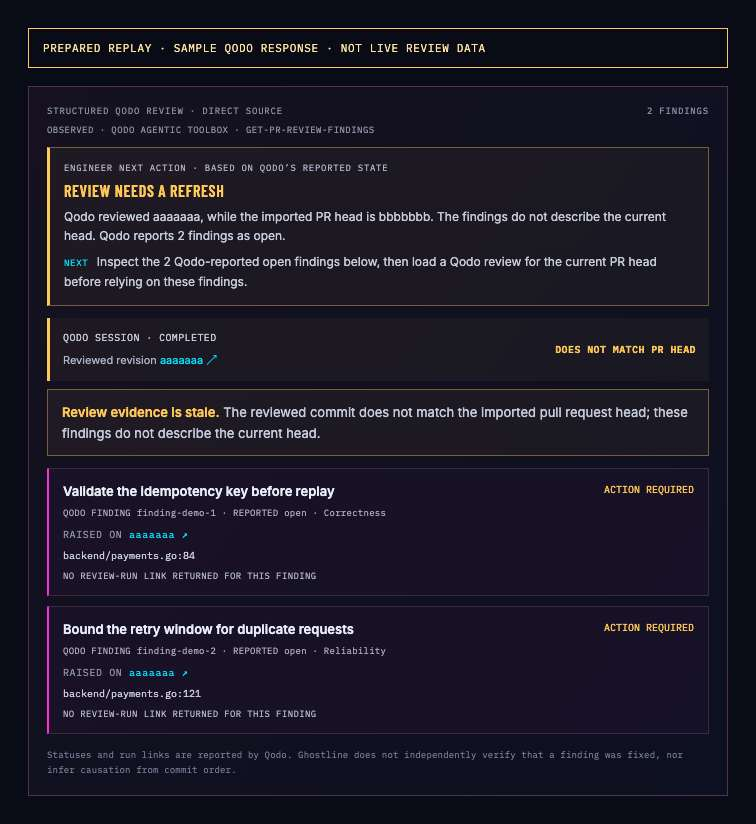
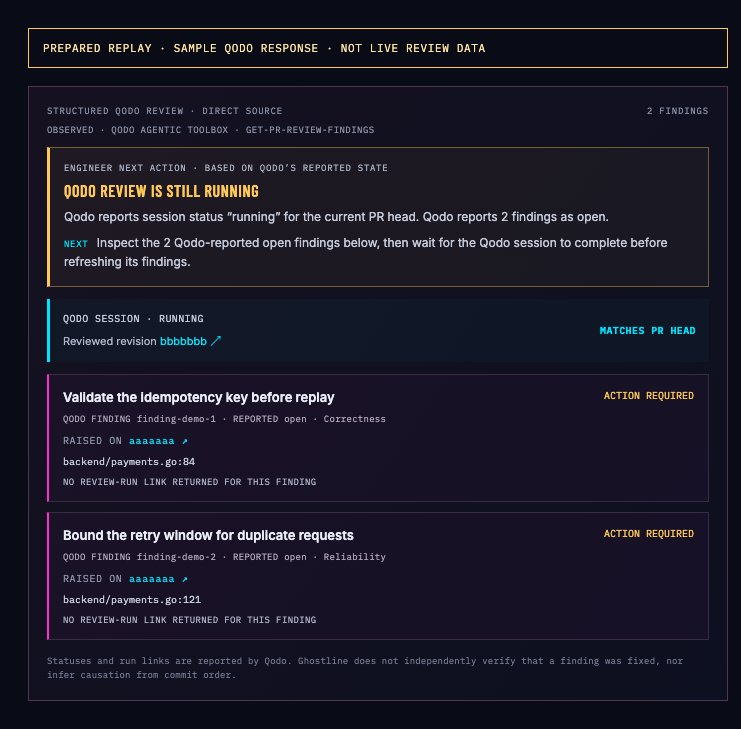
fix: retain findings during active Qodo reviews

diff --git a/frontend/src/domain/qodoReviewSession.ts b/frontend/src/domain/qodoReviewSession.ts
@@ -164,8 +164,8 @@ export function reviewAttentionSummary(review: QodoStructuredReview, headSha: st
       ...counts,
       kind: 'in-progress',
       title: 'Qodo review is still running',
-      detail: `Qodo reports session status “${review.reviewSession.status}” for the current PR head.`,
-      nextAction: 'Wait for the Qodo session to complete, then refresh its findings.',
+      detail: `Qodo reports session status “${review.reviewSession.status}” for the current PR head.${freshnessFindingDetail(openFindingCount, unclassifiedFindingCount)}`,
+      nextAction: freshnessNextAction(openFindingCount, unclassifiedFindingCount, 'wait for the Qodo session to complete before refreshing its findings.'),
     }
   }
   if (sessionStatus !== 'completed') {
@@ -173,8 +173,8 @@ export function reviewAttentionSummary(review: QodoStructuredReview, headSha: st
       ...counts,
       kind: 'incomplete',
       title: 'Qodo review is not complete',
-      detail: `Qodo reports session status “${review.reviewSession.status}” for the current PR head.`,
-      nextAction: 'Inspect the Qodo session and decide whether to retry before acting on its findings.',
+      detail: `Qodo reports session status “${review.reviewSession.status}” for the current PR head.${freshnessFindingDetail(openFindingCount, unclassifiedFindingCount)}`,
+      nextAction: freshnessNextAction(openFindingCount, unclassifiedFindingCount, 'inspect the Qodo session and decide whether to retry before acting on its findings.'),
     }
   }
 

diff --git a/frontend/src/domain/qodoReviewSession.test.ts b/frontend/src/domain/qodoReviewSession.test.ts
@@ -144,6 +144,27 @@ describe('structured Qodo review evidence', () => {
     expect(reviewAttentionSummary(review, shaA).nextAction.toLowerCase()).toContain('wait')
   })
 
+  it('keeps open and unclassified findings visible during running and incomplete sessions', () => {
+    for (const status of ['running', 'failed']) {
+      const review = QodoStructuredReviewSchema.parse({
+        availability: 'available', source: 'Qodo',
+        reviewSession: { status, commitSha: shaA },
+        findings: [
+          { id: 'finding-open', title: 'Check idempotency', status: 'open' },
+          { id: 'finding-unclassified', title: 'Bound retries' },
+        ],
+        reviewRuns: [],
+      })
+
+      const summary = reviewAttentionSummary(review, shaA)
+      expect(summary.openFindingCount).toBe(1)
+      expect(summary.detail).toContain('Qodo reports 1 finding as open')
+      expect(summary.detail).toContain('1 finding has no recognized status')
+      expect(summary.nextAction).toContain('Inspect the 1 Qodo-reported open finding')
+      expect(summary.nextAction).toContain('1 finding with no recognized status')
+    }
+  })
+
   it('surfaces Qodo-reported open and unspecified findings without claiming repairs', () => {
     const review = QodoStructuredReviewSchema.parse({
       availability: 'available', source: 'Qodo',

diff --git a/frontend/src/presentation/StructuredQodoReview.dom.test.ts b/frontend/src/presentation/StructuredQodoReview.dom.test.ts
@@ -98,6 +98,28 @@ describe('structured Qodo review presentation', () => {
     expect(host.textContent).toContain('Review evidence is stale.')
   })
 
+  it('shows open finding urgency while Qodo is still reviewing the current head', async () => {
+    host = document.createElement('div')
+    document.body.append(host)
+    app = createApp(StructuredQodoReview, {
+      review: {
+        ...review,
+        reviewSession: { status: 'running', commitSha: currentSha },
+        findings: [{ id: 'finding-running', title: 'Validate retry key', status: 'open', gitSha: currentSha }],
+      },
+      pullRequestUrl: 'https://github.com/acme/payments/pull/42',
+      headSha: currentSha,
+    })
+    app.mount(host)
+    await nextTick()
+
+    const summary = host.querySelector('.qodo-attention')
+    expect(summary?.textContent).toContain('Qodo review is still running')
+    expect(summary?.textContent).toContain('Qodo reports 1 finding as open')
+    expect(summary?.textContent).toContain('Inspect the 1 Qodo-reported open finding below')
+    expect(summary?.textContent.toLowerCase()).toContain('wait for the qodo session to complete')
+  })
+
   it('does not call a session stale when Qodo omitted its reviewed revision', async () => {
     host = document.createElement('div')
     document.body.append(host)

diff --git a/frontend/qodo-attention-evidence.html b/frontend/qodo-attention-evidence.html
@@ -26,7 +26,7 @@
         review: {
           availability: 'available',
           source: 'Qodo Agentic Toolbox · get-pr-review-findings',
-          reviewSession: { status: 'completed', commitSha: reviewedSha },
+          reviewSession: { status: 'running', commitSha: currentSha },
           findings: [
             { id: 'finding-demo-1', title: 'Validate the idempotency key before replay', status: 'open', gitSha: reviewedSha, category: 'Correctness', actionLevel: 'action_required', filePath: 'backend/payments.go', startLine: 84 },
             { id: 'finding-demo-2', title: 'Bound the retry window for duplicate requests', status: 'open', gitSha: reviewedSha, category: 'Reliability', actionLevel: 'action_required', filePath: 'backend/payments.go', startLine: 121 },
